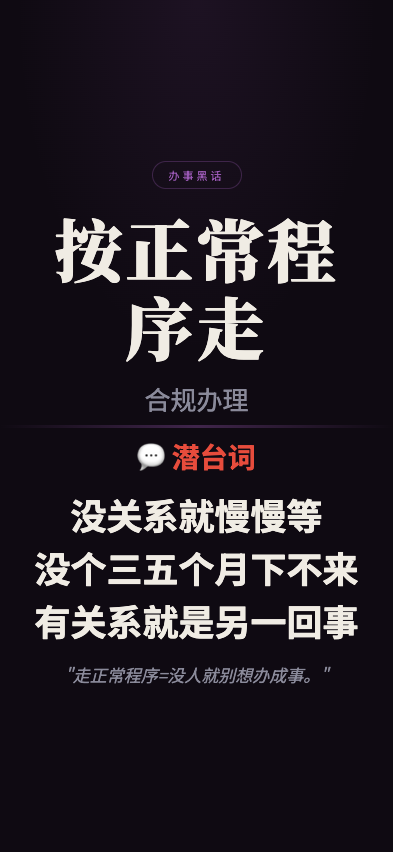
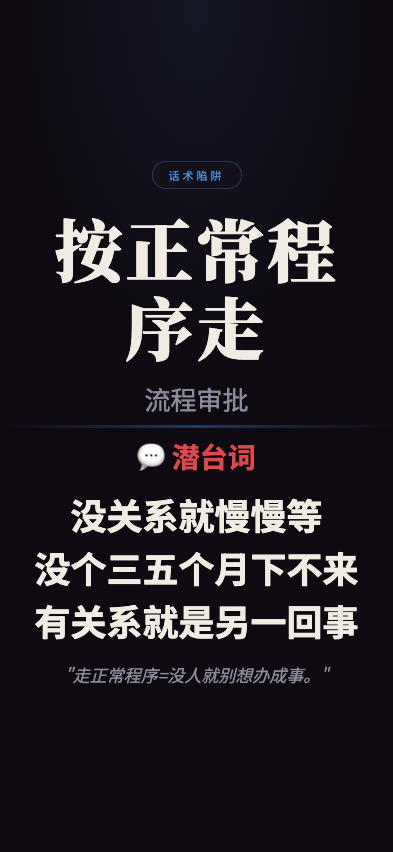
feat: 职场生存法则 screenshot - anzhengchangchengxuzou

Changed region(s): [[0.3664, 0.4577, 0.6412, 0.5188], [0.4275, 0.1831, 0.5802, 0.2136]]

diff --git a/wuliao-tools/tools/biz-speak/scenes/anzhengchangchengxuzou.html b/wuliao-tools/tools/biz-speak/scenes/anzhengchangchengxuzou.html
@@ -10,8 +10,8 @@
     --bg: #0f0a12;
     --text: #f0ece4;
     --text-dim: #8a8a9a;
-    --gold: #9b59b6;
-    --red: #e74c3c;
+    --gold: #4a90d9;
+    --red: #d94a4a;
   }
   * { margin:0; padding:0; box-sizing:border-box; }
   html, body { width:100%; height:100%; overflow:hidden; }
@@ -24,11 +24,11 @@
   }
   body::before {
     content:''; position:absolute; top:0; left:0; right:0; height:45%;
-    background:radial-gradient(ellipse at 50% 0%, rgba(155,89,182,0.1) 0%, transparent 65%);
+    background:radial-gradient(ellipse at 50% 0%, rgba(74,144,217,0.1) 0%, transparent 65%);
     pointer-events:none; z-index:0;
   }
   .top { flex:1; display:flex; flex-direction:column; align-items:center; justify-content:flex-end; padding:4px 28px 8px; position:relative; z-index:1; }
-  .tag { font-size:11px; letter-spacing:3px; color:var(--gold); border:1px solid rgba(155,89,182,0.3); padding:5px 16px; border-radius:50px; margin-bottom:20px; }
+  .tag { font-size:11px; letter-spacing:3px; color:var(--gold); border:1px solid rgba(74,144,217,0.3); padding:5px 16px; border-radius:50px; margin-bottom:20px; }
   .main-title { font-family:'Noto Serif SC'; font-size:68px; font-weight:900; text-align:center; line-height:1.15; letter-spacing:3px; min-width:0; overflow-wrap:break-word; max-width:92%; }
   .sub-title { font-size:26px; color:var(--text-dim); text-align:center; margin-top:14px; }
   .divider { width:100%; height:3px; background:linear-gradient(90deg,transparent,var(--gold),transparent); opacity:0.35; flex-shrink:0; position:relative; z-index:1; }
@@ -41,9 +41,9 @@
 </head>
 <body>
   <div class="top">
-    <div class="tag">办事黑话</div>
+    <div class="tag">话术陷阱</div>
     <div class="main-title">按正常程序走</div>
-    <div class="sub-title">合规办理</div>
+    <div class="sub-title">流程审批</div>
   </div>
   <div class="divider"></div>
   <div class="bottom">
